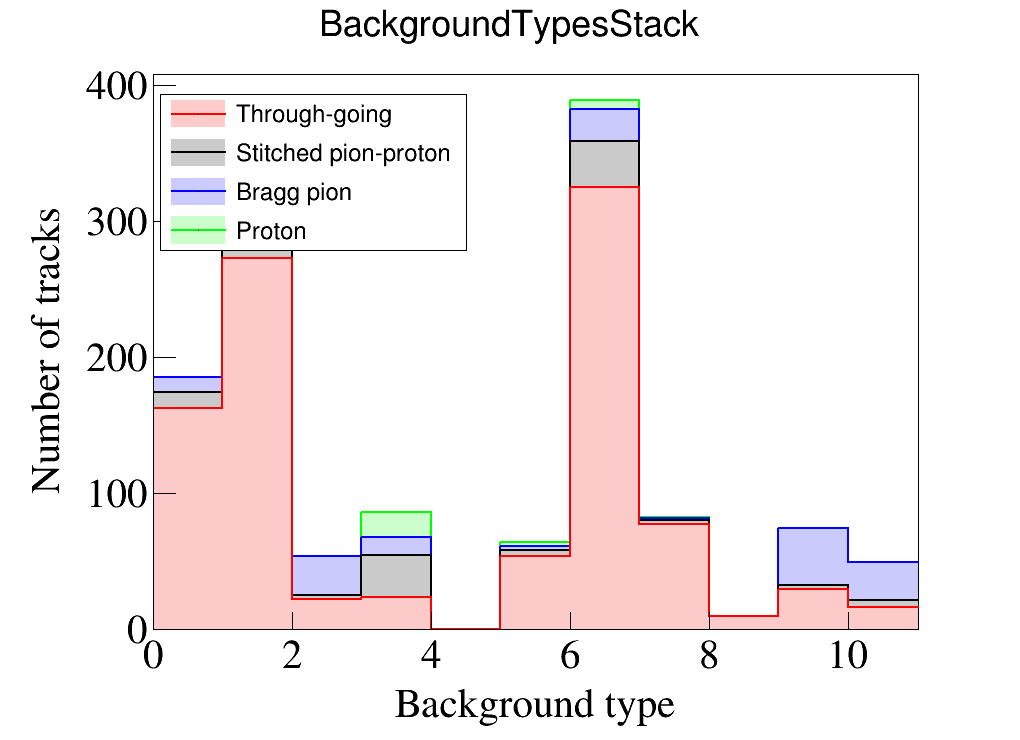
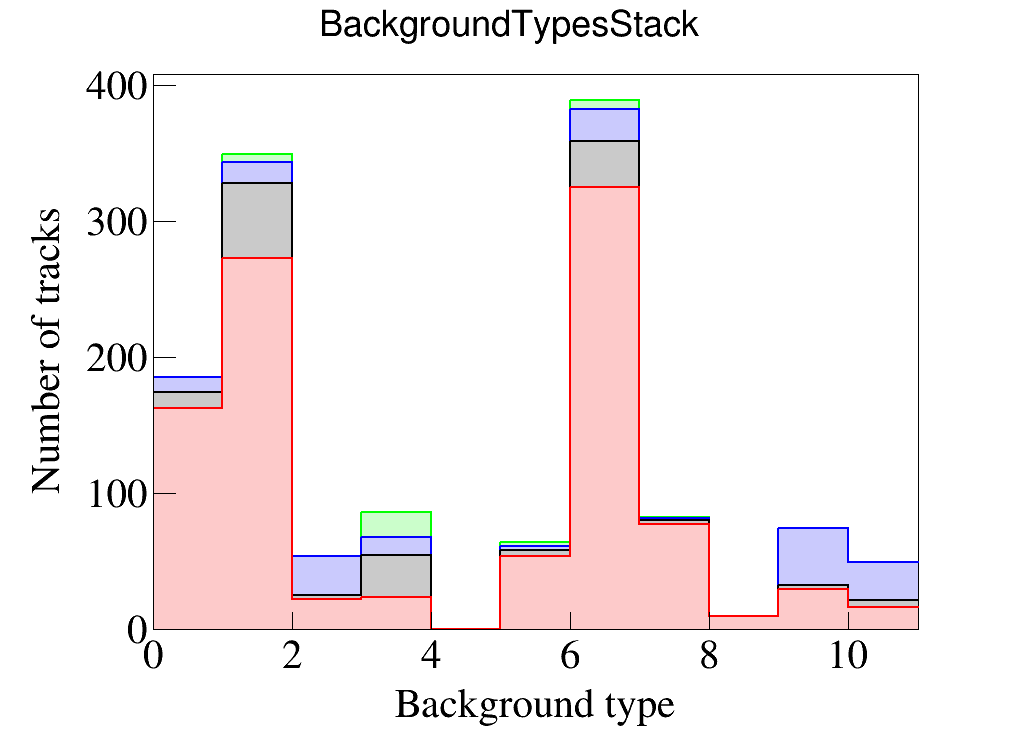
Start secondary track analysis

Changed region(s): [[0.152, 0.1243, 0.4559, 0.3419]]

diff --git a/RecoAllAnalysis.cc b/RecoAllAnalysis.cc
@@ -3,6 +3,7 @@
 #include <TString.h>
 #include <TCanvas.h>
 #include <TTree.h>
+#include <TVector3.h>
 #include <TEfficiency.h>
 
 #include <vector>
@@ -26,7 +27,7 @@ std::map<int, std::string> backgroundTypes = {
 void initializeProtonPoints(TGraph* gProton);
 void initializePionPoints(TGraph* gPion);
 void initializeMuonNoBraggPoints(TGraph* gMuonTG);
-double computeReducedChi2(const TGraph* theory, std::vector<double> xData, std::vector<double> yData, int nPoints, int nOutliersToDiscard = 0, int nTrim = 0);
+double computeReducedChi2(const TGraph* theory, std::vector<double> xData, std::vector<double> yData,  bool dataReversed, int nPoints, int nOutliersToDiscard = 0, int nTrim = 0);
 double distance(double x1, double x2, double y1, double y2, double z1, double z2);
 void printOneDPlots(
     TString dir, int fontStyle, double textSize,
@@ -67,6 +68,15 @@ void RecoAllAnalysis() {
     //    9:  capture at rest
     //    10: decay
     //    11: other
+
+    // Values for chi^2 secondary fits
+    double PION_CHI2_PION_VALUE     = 1.25;
+    double PION_CHI2_PROTON_VALUE   = 2.25;
+    double PROTON_CHI2_PION_VALUE   = 1.75;
+    double PROTON_CHI2_PROTON_VALUE = 2.75; 
+
+    // Vertex radius
+    double VERTEX_RADIUS = 4.0;
 
     // Proton energy bounds
     double PROTON_ENERGY_LOWER_BOUND = 0.075;
@@ -119,13 +129,19 @@ void RecoAllAnalysis() {
 
     // WC match information
     int WC2TPCtrkID;
+    double WC2TPCPrimaryBeginX, WC2TPCPrimaryBeginY, WC2TPCPrimaryBeginZ;
     double WC2TPCPrimaryEndX, WC2TPCPrimaryEndY, WC2TPCPrimaryEndZ;
+    int wcMatchPDG;
     std::vector<double>* wcMatchResR = nullptr;
     std::vector<double>* wcMatchDEDX = nullptr;
     std::vector<double>* wcMatchXPos = nullptr;
     std::vector<double>* wcMatchYPos = nullptr;
     std::vector<double>* wcMatchZPos = nullptr;
+    tree->SetBranchAddress("wcMatchPDG", &wcMatchPDG);
     tree->SetBranchAddress("WC2TPCtrkID", &WC2TPCtrkID);
+    tree->SetBranchAddress("WC2TPCPrimaryBeginX", &WC2TPCPrimaryBeginX);
+    tree->SetBranchAddress("WC2TPCPrimaryBeginY", &WC2TPCPrimaryBeginY);
+    tree->SetBranchAddress("WC2TPCPrimaryBeginZ", &WC2TPCPrimaryBeginZ);
     tree->SetBranchAddress("WC2TPCPrimaryEndX", &WC2TPCPrimaryEndX);
     tree->SetBranchAddress("WC2TPCPrimaryEndY", &WC2TPCPrimaryEndY);
     tree->SetBranchAddress("WC2TPCPrimaryEndZ", &WC2TPCPrimaryEndZ);
@@ -154,6 +170,10 @@ void RecoAllAnalysis() {
     tree->SetBranchAddress("recoBeginZ", &recoBeginZ);
     tree->SetBranchAddress("recoTrkID", &recoTrkID);
     tree->SetBranchAddress("isTrackNearVertex", &isTrackNearVertex);
+
+    // Reco truth-match information
+    std::vector<int>* matchedIdentity = nullptr;
+    tree->SetBranchAddress("matchedIdentity", &matchedIdentity);
 
     // Calorimetry information
     std::vector<std::vector<double>>* recoResR = nullptr;
@@ -185,15 +205,22 @@ void RecoAllAnalysis() {
 
     TH1D *hTotalSignal = new TH1D("hTotalSignal", "hTotalSignal;;", 1, 0, 1);
 
-    TH1D *hStitchedDistanceFromVertex         = new TH1D("hStitchedDistanceFromVertex", "StitchedDistanceFromVertex;;", 20, 0, 20);
-    TH1D *hStitchedOriginalDistanceFromVertex = new TH1D("hStitchedOriginalDistanceFromVertex", "hStitchedOriginalDistanceFromVertex;;", 20, 0, 20);
+    TH1D *hStitchedDistanceFromVertex         = new TH1D("hStitchedDistanceFromVertex", "StitchedDistanceFromVertex;;", 20, 0, 70);
+    TH1D *hStitchedOriginalDistanceFromVertex = new TH1D("hStitchedOriginalDistanceFromVertex", "hStitchedOriginalDistanceFromVertex;;", 20, 0, 70);
 
     TH1D *hStitchAsPionAndProton = new TH1D("hStitchAsPionAndProton", "hStitchAsPionAndProton;;", NUM_BACKGROUND_TYPES, 0, NUM_BACKGROUND_TYPES);
     TH1D *hStitchAsPionBraggPeak = new TH1D("hStitchAsPionBraggPeak", "hStitchAsPionBraggPeak;;", NUM_BACKGROUND_TYPES, 0, NUM_BACKGROUND_TYPES);
     TH1D *hStitchAsThroughgoing  = new TH1D("hStitchAsThroughgoing", "hStitchAsThroughgoing;;", NUM_BACKGROUND_TYPES, 0, NUM_BACKGROUND_TYPES);
     TH1D *hStitchAsProton        = new TH1D("hStitchAsProton", "hStitchAsProton;;", NUM_BACKGROUND_TYPES, 0, NUM_BACKGROUND_TYPES);
-
     TH1D *hStitchFracBreakPoints = new TH1D("hStitchFracBreakPoints", "hStitchFracBreakPoints;;", 50, 0, 1);
+
+    TH1D *hSecondaryPionChi2Protons = new TH1D("hSecondaryPionChi2Protons", "hSecondaryPionChi2Protons;;", 20, 0, 20);
+    TH1D *hSecondaryPionChi2Pions   = new TH1D("hSecondaryPionChi2Pions", "hSecondaryPionChi2Pions;;", 20, 0, 20);
+    TH1D *hSecondaryPionChi2Others  = new TH1D("hSecondaryPionChi2Others", "hSecondaryPionChi2Others;;", 20, 0, 20);
+
+    TH1D *hSecondaryProtonChi2Protons = new TH1D("hSecondaryProtonChi2Protons", "hSecondaryProtonChi2Protons;;", 20, 0, 20);
+    TH1D *hSecondaryProtonChi2Pions   = new TH1D("hSecondaryProtonChi2Pions", "hSecondaryProtonChi2Pions;;", 20, 0, 20);
+    TH1D *hSecondaryProtonChi2Others  = new TH1D("hSecondaryProtonChi2Others", "hSecondaryProtonChi2Others;;", 20, 0, 20);
 
     //////////////////////
     // Loop over events //
@@ -237,12 +264,15 @@ void RecoAllAnalysis() {
         int nRemoveEnds     = 3;
         int minPoints       = 5;
 
+        bool primaryReversed = false;
+        if (WC2TPCPrimaryEndZ < WC2TPCPrimaryBeginZ) primaryReversed = true;
+
         outWCAll << "Event number: " << event << std::endl; 
         outWCAll << "  Calorimetry data points: " << totalCaloPoints << std::endl;
 
-        double pionChi2         = computeReducedChi2(gPion, *wcMatchResR, *wcMatchDEDX, totalCaloPoints, nRemoveOutliers, nRemoveEnds);
-        double throughGoingChi2 = computeReducedChi2(gMuonTG, *wcMatchResR, *wcMatchDEDX, totalCaloPoints, nRemoveOutliers, nRemoveEnds);
-        double protonChi2       = computeReducedChi2(gProton, *wcMatchResR, *wcMatchDEDX, totalCaloPoints, nRemoveOutliers, nRemoveEnds);
+        double pionChi2         = computeReducedChi2(gPion, *wcMatchResR,  *wcMatchDEDX, primaryReversed, totalCaloPoints, nRemoveOutliers, nRemoveEnds);
+        double throughGoingChi2 = computeReducedChi2(gMuonTG, *wcMatchResR, *wcMatchDEDX, primaryReversed, totalCaloPoints, nRemoveOutliers, nRemoveEnds);
+        double protonChi2       = computeReducedChi2(gProton, *wcMatchResR, *wcMatchDEDX, primaryReversed, totalCaloPoints, nRemoveOutliers, nRemoveEnds);
 
         double minStitchedChi2 = std::numeric_limits<double>::max();
         int bestBreakPoint = -1;
@@ -254,8 +284,8 @@ void RecoAllAnalysis() {
                 std::vector<double> rightResR(wcMatchResR->begin() + caloBreakPoint, wcMatchResR->end());
                 std::vector<double> rightDEDX(wcMatchDEDX->begin() + caloBreakPoint, wcMatchDEDX->end());
 
-                double chi2LHS = computeReducedChi2(gProton, leftResR, leftDEDX, leftResR.size(), nRemoveOutliers, nRemoveEnds);
-                double chi2RHS = computeReducedChi2(gMuonTG, rightResR, rightDEDX, rightResR.size(), nRemoveOutliers, nRemoveEnds);
+                double chi2LHS = computeReducedChi2(gProton, leftResR, leftDEDX, primaryReversed, leftResR.size(), nRemoveOutliers, nRemoveEnds);
+                double chi2RHS = computeReducedChi2(gMuonTG, rightResR, rightDEDX, primaryReversed, rightResR.size(), nRemoveOutliers, nRemoveEnds);
 
                 double totalChi2 = (chi2LHS * leftResR.size() + chi2RHS * rightResR.size()) / totalCaloPoints;
                 
@@ -286,9 +316,13 @@ void RecoAllAnalysis() {
         }
         outWCAll << std::endl;
 
+        if (bestBreakPoint == -1) bestBreakPoint = wcMatchXPos->size() - 1;
+        double breakPointX = wcMatchXPos->at(bestBreakPoint); 
+        double breakPointY = wcMatchYPos->at(bestBreakPoint); 
+        double breakPointZ = wcMatchZPos->at(bestBreakPoint);
+
         double minChi2 = std::min({minStitchedChi2, pionChi2, throughGoingChi2, protonChi2});
         if (minChi2 == minStitchedChi2) {
-            double breakPointX                = wcMatchXPos->at(bestBreakPoint); double breakPointY = wcMatchYPos->at(bestBreakPoint); double breakPointZ = wcMatchZPos->at(bestBreakPoint);
             double distanceFromVertex         = distance(breakPointX, truthPrimaryVertexX, breakPointY, truthPrimaryVertexY, breakPointZ, truthPrimaryVertexZ);
             double originalDistanceFromVertex = distance(WC2TPCPrimaryEndX, truthPrimaryVertexX, WC2TPCPrimaryEndY, truthPrimaryVertexY, WC2TPCPrimaryEndZ, truthPrimaryVertexZ);
 
@@ -312,12 +346,12 @@ void RecoAllAnalysis() {
             }
             outStitchedFile << std::endl;
 
-            // if (backgroundType == 1) {
-            //     hStitchedDistanceFromVertex->Fill(distanceFromVertex);
-            //     hStitchedOriginalDistanceFromVertex->Fill(originalDistanceFromVertex);
-            // }
-            hStitchedDistanceFromVertex->Fill(distanceFromVertex);
-            hStitchedOriginalDistanceFromVertex->Fill(originalDistanceFromVertex);
+            if ((backgroundType == 1 ) || (backgroundType == 7 ) ) {
+                hStitchedDistanceFromVertex->Fill(distanceFromVertex);
+                hStitchedOriginalDistanceFromVertex->Fill(originalDistanceFromVertex);
+            }
+            // hStitchedDistanceFromVertex->Fill(distanceFromVertex);
+            // hStitchedOriginalDistanceFromVertex->Fill(originalDistanceFromVertex);
             hStitchAsPionAndProton->Fill(backgroundType);
             hStitchFracBreakPoints->Fill(fracBreakPoint);
             
@@ -333,6 +367,69 @@ void RecoAllAnalysis() {
             // Track looks like through-going pion, could be signal
             hStitchAsThroughgoing->Fill(backgroundType);
         }
+
+        ////////////////////////
+        // Continue selection //
+        ////////////////////////
+
+        // If the particle is categorized as throughgoing:
+        //   - Chi^2 selection on secondary tracks
+        //   - If no secondary tracks, accept as 0p event
+        // If the particle is categorized as a pion w/ bragg peak:
+        //   - Chi^2 selection on secondary tracks
+        //   - If no secondary tracks, kill the event 
+        // If the particle is categorized as proton:
+        //   - Test if kill/keep
+        // If the particle is categorized as stitched:
+        //   - Chi^2 selection on secondary tracks from new vertex
+
+        // Get reco tracks near vertex
+        std::cout << "WC match truth-matched PDG: " << wcMatchPDG << std::endl;
+        for (size_t trk_idx = 0; trk_idx < recoBeginX->size(); trk_idx++) {
+            int secondaryMatchedPDG = matchedIdentity->at(trk_idx);
+
+            // Have to re-check track ordering for stitched case
+            double distanceFromStart = distance(
+                recoBeginX->at(trk_idx), breakPointX, 
+                recoBeginY->at(trk_idx), breakPointY,
+                recoBeginZ->at(trk_idx), breakPointZ
+            );
+            double distanceFromEnd = distance(
+                recoEndX->at(trk_idx), breakPointX, 
+                recoEndY->at(trk_idx), breakPointY,
+                recoEndZ->at(trk_idx), breakPointZ
+            );
+
+            // Track is near vertex
+            if ((distanceFromStart < VERTEX_RADIUS) || (distanceFromEnd < VERTEX_RADIUS)) {
+                std::vector<double> secondaryDEDX = recoDEDX->at(trk_idx);
+                std::vector<double> secondaryResR = recoDEDX->at(trk_idx);
+
+                bool secondaryReversed = false;
+                if (distanceFromEnd < distanceFromStart) secondaryReversed = true;
+
+                double pionChi2   = computeReducedChi2(gPion, secondaryResR, secondaryDEDX, secondaryReversed, secondaryDEDX.size(), nRemoveOutliers, nRemoveEnds);
+                double protonChi2 = computeReducedChi2(gProton, secondaryResR, secondaryDEDX, secondaryReversed, secondaryDEDX.size(), nRemoveOutliers, nRemoveEnds);
+
+                // Using truth-matched, fill corresponding histogram
+                if (secondaryMatchedPDG == -211) {
+                    hSecondaryPionChi2Pions->Fill(pionChi2);
+                    hSecondaryProtonChi2Pions->Fill(protonChi2);
+                } else if (secondaryMatchedPDG == 2212) {
+                    hSecondaryPionChi2Protons->Fill(pionChi2);
+                    hSecondaryProtonChi2Protons->Fill(protonChi2);
+                } else {
+                    std::cout << "Secondary other: " << secondaryMatchedPDG << std::endl;
+                    std::cout << "  Pion chi2: " << pionChi2 << std::endl;
+                    std::cout << "  Proton chi2: " << protonChi2 << std::endl;
+                    std::cout << std::endl;
+
+                    hSecondaryPionChi2Others->Fill(pionChi2);
+                    hSecondaryProtonChi2Others->Fill(protonChi2);
+                }
+            }
+        }
+
     }
 
     std::cout << std::endl;
@@ -350,28 +447,38 @@ void RecoAllAnalysis() {
     std::vector<std::vector<TH1*>> PlotGroups = {
         {hStitchedDistanceFromVertex, hStitchedOriginalDistanceFromVertex},
         {hStitchAsPionAndProton, hStitchAsPionBraggPeak, hStitchAsThroughgoing, hStitchAsProton},
-        {hStitchFracBreakPoints}
+        {hStitchFracBreakPoints},
+        {hSecondaryPionChi2Pions, hSecondaryPionChi2Protons, hSecondaryPionChi2Others},
+        {hSecondaryProtonChi2Pions, hSecondaryProtonChi2Protons, hSecondaryProtonChi2Others}
     };
 
     std::vector<std::vector<TString>> PlotLabelGroups = {
         {"Detected vertex distance", "Original distance"},
         {"Stitched pion-proton", "Bragg pion", "Through-going", "Proton"},
-        {"Stitched tracks"}
+        {"Stitched tracks"},
+        {"Pions", "Protons", "Others"},
+        {"Pions", "Protons", "Others"}
     };
 
     std::vector<TString> PlotTitles = {
         "StitchedDistanceFromVertex",
         "StitchedBackgroundTypes",
-        "StitchedFracBreakPoints"
+        "StitchedFracBreakPoints",
+        "PionChi2SecondaryTracks",
+        "ProtonChi2SecondaryTracks"
     };
 
     std::vector<TString> XLabels = {
         "Distance from true vertex (cm)",
         "Background type",
-        "Fractional break point"
+        "Fractional break point",
+        "Pion reduced \\chi^2",
+        "Proton reduced \\chi^2"
     };
 
     std::vector<TString> YLabels = {
+        "Number of tracks",
+        "Number of tracks",
         "Number of tracks",
         "Number of tracks",
         "Number of tracks"
@@ -418,7 +525,7 @@ void RecoAllAnalysis() {
     c->SetLeftMargin(0.15);
     c->SetBottomMargin(0.15);
     hBackgroundTypesStack->Draw("HIST");
-    c->BuildLegend();
+    // c->BuildLegend();
 
     hBackgroundTypesStack->GetXaxis()->SetTitleFont(FontStyle);
     hBackgroundTypesStack->GetXaxis()->SetLabelFont(FontStyle);
@@ -443,8 +550,12 @@ void RecoAllAnalysis() {
     c->SaveAs(SaveDir + "StitchedBackgroundTypesStacked.png");
 }
 
-double computeReducedChi2(const TGraph* theory, std::vector<double> xData, std::vector<double> yData, int nPoints, int nOutliersToDiscard = 0, int nTrim = 0) {
+double computeReducedChi2(const TGraph* theory, std::vector<double> xData, std::vector<double> yData, bool dataReversed, int nPoints, int nOutliersToDiscard = 0, int nTrim = 0) {
     std::vector<double> chi2Contributions;
+    if (dataReversed) {
+        std::reverse(xData.begin(), xData.end());
+        std::reverse(yData.begin(), yData.end());
+    }
 
     int startIdx = 0;
     int endIdx   = nPoints;
